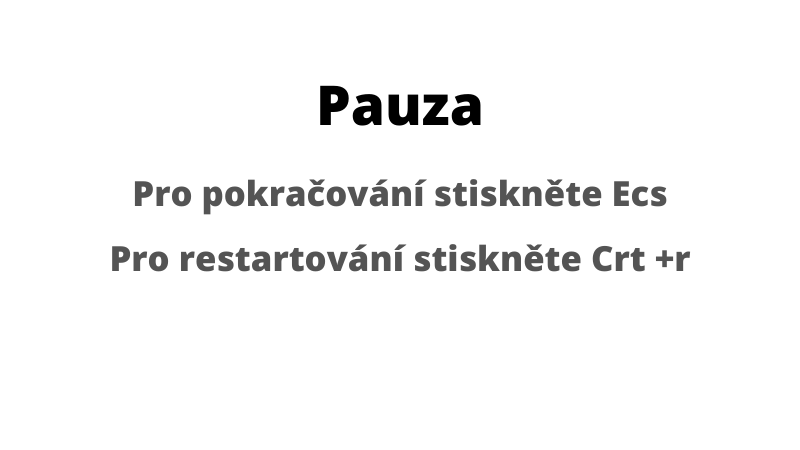
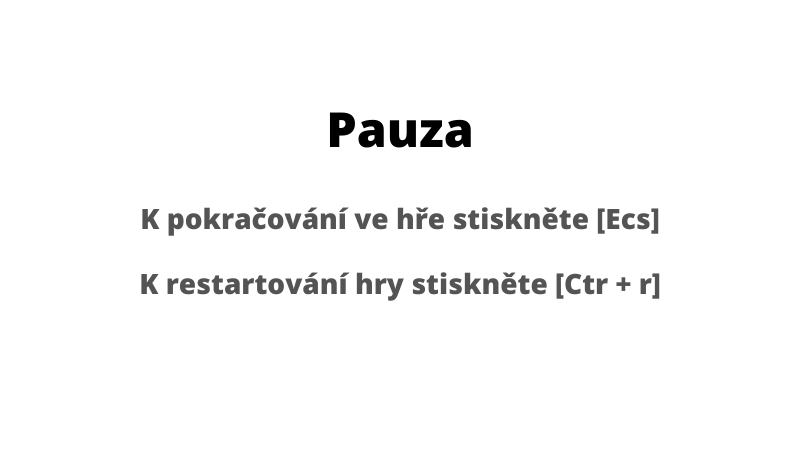
zlepšeni skore a design

Changed region(s): [[0.125, 0.3733, 0.875, 0.6844], [0.375, 0.1867, 0.625, 0.3422]]

diff --git a/Scenes/Play.js b/Scenes/Play.js
@@ -2,8 +2,9 @@ class Play extends Phaser.Scene {
   constructor() {
     super("play");
     this.enem = [];
-    this.isPaused = false;
-    this.isGameOver = false;
+    //this.isPaused = false;
+    //this.isGameOver = false;
+    this.gameState = "play";
     this.score;
     this.life;
     this.numEnem = 0;
@@ -94,6 +95,7 @@ class Play extends Phaser.Scene {
 
   checkForLetter(letter) {
     let oneCorrect = false;
+    var BreakException = {};
     if (!this.targetWord) {
       this.enem.forEach((enemy, key) => {
         if (enemy) {
@@ -169,6 +171,7 @@ class Play extends Phaser.Scene {
     });
     this.scene.pause();
   }
+
   gameInput() {
     document.addEventListener("keyup", (e) => {
       delete this.keysPressed[e.key];
@@ -176,31 +179,29 @@ class Play extends Phaser.Scene {
     document.addEventListener("keydown", (e) => {
       this.keysPressed[e.key] = true;
 
-      if (e.key === "Escape") {
-        if (!this.isGameOver) {
-          if (this.isPaused) {
-            this.unpauseScreen();
-          } else {
-            this.pauseScreen();
-
-            if (this.keysPressed["Control"] && e.key == "r") {
-              console.log(location);
-              this.scene.remove();
-              game.scene.add("play", Play, true);
-              this.isGameOver = false;
-            }
-          }
+      if (this.gameState === "play") {
+        if (e.key === "Escape") {
+          this.gameState = "pause";
+          this.pauseScreen();
         } else {
-          if (keysPressed["Control"] && e.key == "r") {
-            console.log(location);
+          this.checkForLetter(e.key);
+        }
+      } else if (this.gameState === "pause") {
+        if (e.key === "Escape") {
+          this.gameState = "play";
+          this.unpauseScreen();
+
+          if (this.keysPressed["Control"] && e.key == "r") {
             this.scene.remove();
             game.scene.add("play", Play, true);
             this.isGameOver = false;
           }
         }
-      } else {
-        if (!this.isGameOver && !this.isPaused) {
-          this.checkForLetter(e.key);
+      } else if (this.gameState === "gameOver") {
+        if (this.keysPressed["Control"] && e.key == "r") {
+          this.scene.remove();
+          game.scene.add("play", Play, true);
+          this.isGameOver = false;
         }
       }
     });
@@ -239,7 +240,7 @@ class Play extends Phaser.Scene {
       "",
       {
         fontSize: "32px",
-        fill: "#00ff00",
+        fill: "#000000",
         fontFamily: 'Georgia, "Goudy Bookletter 1911", Times, serif',
       }
     );

diff --git a/Scenes/PrePlay.js b/Scenes/PrePlay.js
@@ -14,7 +14,10 @@ class PrePlay extends Phaser.Scene {
   gameInput() {
     document.addEventListener("keydown", (e) => {
       if (this.prePlay) {
-        this.damageEffect();
+        if (e.key === " ") {
+          this.damageEffect();
+          this.prePlay = false;
+        }
       }
     });
   }
@@ -24,8 +27,6 @@ class PrePlay extends Phaser.Scene {
       this.screen.alpha -= 0.1;
       k++;
       if (k == 18) {
-        this.prePlay = false;
-
         this.scene.start("play");
       }
     }, 50);

diff --git a/gameObjects/Life.js b/gameObjects/Life.js
@@ -24,15 +24,12 @@ class Life {
   }
 
   decLife(amount) {
-    console.log(this.images);
-    console.log(this.life);
     this.images[this.life - 1].destroy();
     this.life -= amount;
     if (this.life == 0) {
       this.scene.isGameOver = true;
       this.scene.gameOver();
-      /*   this.scene.scene.boot();
-      this.scene.scene.start("gameOver"); */
+      this.scene.gameState = "gameOver";
     }
   }
 }

diff --git a/gameObjects/TextObj.js b/gameObjects/TextObj.js
@@ -86,7 +86,6 @@ class TextObj {
           scale: { start: 0.04, end: 0 },
         })
       );
-      console.log(this.scene.emitter);
       this.scene.time.delayedCall(150, () => {
         this.scene.emitter.forEach((emitter) => {
           emitter.stop();
